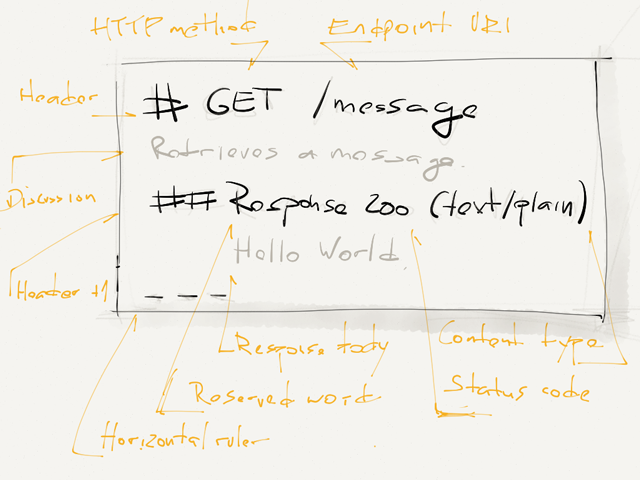
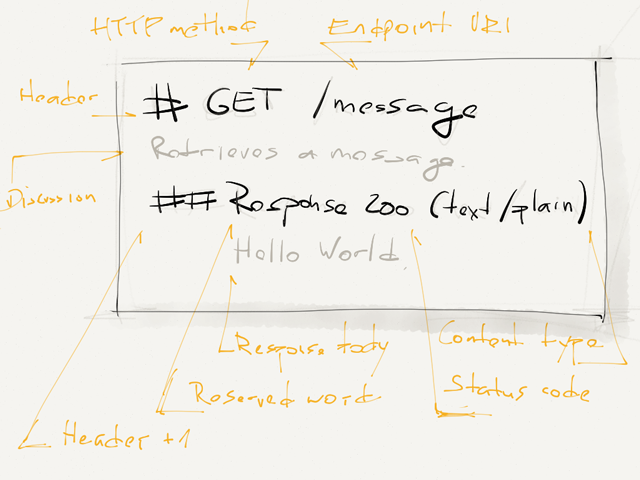
New Format Basics post updated to reflect latest format changes (removal of horizontal ruler).

diff --git a/_posts/2013-02-19-New-API-Blueprint-Format-Basics.md b/_posts/2013-02-19-New-API-Blueprint-Format-Basics.md
@@ -2,7 +2,7 @@
 title: New API Blueprint Format Basics
 excerpt: Discussing basic features of the New API Blueprint Format – Markdown, API endpoints, multiple requests and responses and commenting on parameters.
 layout: post
-date: 2014-02-20 09:00:00 +1000
+date: 2013-02-20 09:00:00 +1000
 author: zdenek
 published: false
 ---
@@ -17,7 +17,7 @@ A Markdown API Blueprint document follows given structure. At the very heart of 
 ## API Endpoint
 An endpoint usually represents a resource on the server. It is represented by an URI relative to API root and one or more HTTP verbs (methods). 
 
-In API Blueprint an API endpoint is defined as a Markdown header with optional HTTP method followed by an URI. After the header follows structured discussion of the endpoint. The endpoint discussion consists of sections of predefined meaning. These sections are delimited by a nested Markdown headers with reserved section names (e.g. `## Request`). Finally, the API endpoint is closed by Markdown's horizontal ruler.
+In API Blueprint an API endpoint is defined as a Markdown header with optional HTTP method followed by an URI. After the header follows structured discussion of the endpoint. The endpoint discussion consists of sections of predefined meaning. These sections are delimited by a **nested** Markdown headers with reserved section names (e.g. `## Request`). You are free to use any properly nested header in everywhere where a discussion is expected as long as it doesn't clash with reserved header names.
 
 API Endpoint structure:
 
@@ -30,8 +30,6 @@ For example:
 	
 	## Response 200 (application/json)
 		{ "message" : "Hello World" }
-		
-	---
 	
 represents an endpoint _message_of_the_day_ which upon being requested with HTTP GET method returns status code of `200` with response header `Content-Type: application/json` and response body `{ "message" : "Hello World!" }`.
 
@@ -50,8 +48,6 @@ Consider an endpoint that allows you to retrieve message of the day for any give
 	@.message (string) ... Extraordinaire message of the day.
 	
 		{ "message" : "Hello World" }
-		
-	---
 	
 As you can see the `@` sign denotes URI parameter while `@.` stands for local scope parameters. Also in this example we have used MongoDB - style [dot notation](http://docs.mongodb.org/manual/core/document/#dot-notation) for reaching into a JSON object.
 
@@ -74,8 +70,6 @@ Consider an endpoint that allows you to create new message of the day either as 
 		
 	## Response 404 (application/json)
 		{ "status" : "not found" }
-		
-	---
 	
 Note that "New MOTD" and "Duplicate MOTD" strings in request headers are just mere identifiers of the particular `Request` section. Also note we usually suggest to document only regular state responses and save error states for general API Overview discussion.
 
